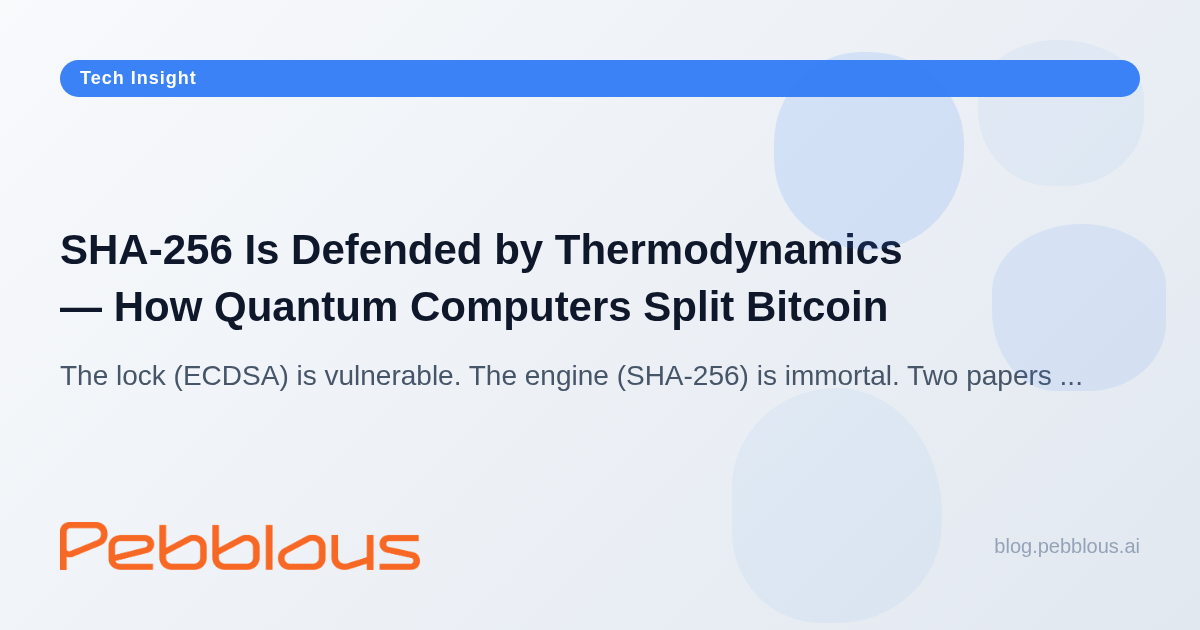
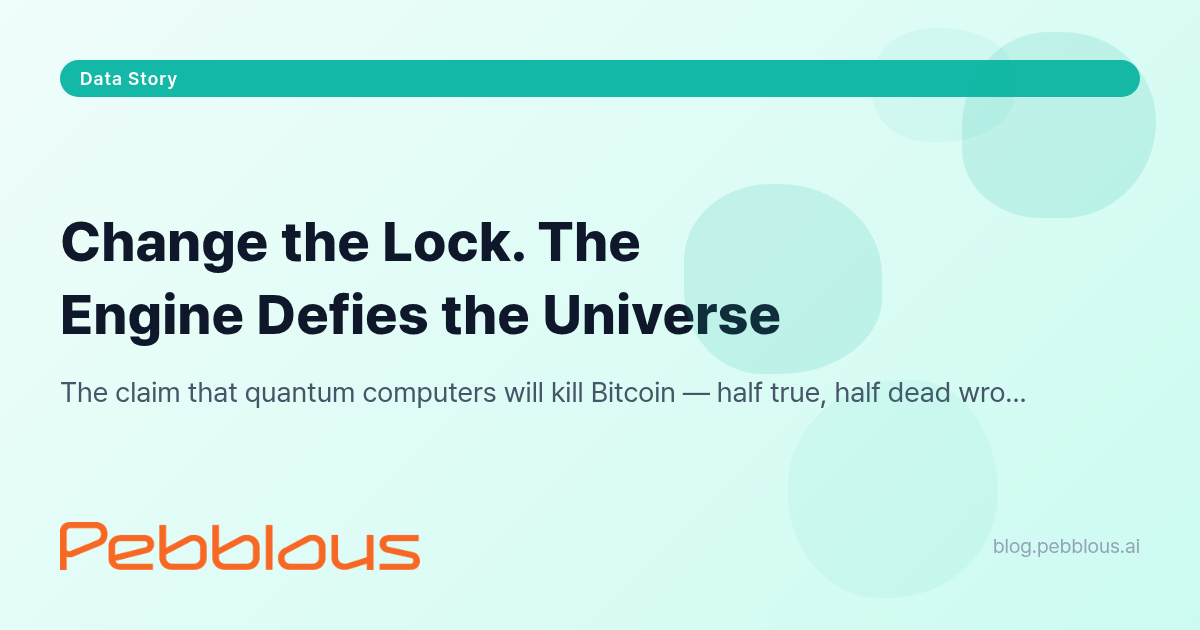
refactor(story): quantum-bitcoin-split 제목 최종 확정
KO: 비트코인 자물쇠는 바꿔야 한다. 채굴은 우주도 못 건드린다
KO 부제: 양자컴퓨터가 비트코인을 죽인다는 말, 반은 맞고 반은 틀렸다
EN: Change the Lock. The Engine Defies the Universe.
EN 부제: The claim that quantum computers will kill Bitcoin — half true, half dead wrong.

- KO/EN OG 이미지 재생성

Changed region(s): [[0.0308, 0.0302, 0.9867, 0.9349]]

diff --git a/report/quantum-bitcoin-split/ko/index.html b/report/quantum-bitcoin-split/ko/index.html
@@ -10,8 +10,8 @@
     <meta name="robots" content="index, follow">
     <meta name="revisit-after" content="7 days">
 
-    <title>비트코인의 자물쇠는 깨지고, 엔진은 우주가 지킨다 | 페블러스</title>
-    <meta name="description" content="'양자컴퓨터가 비트코인을 끝낸다'는 공포와 '절대 못 깬다'는 안도, 둘 다 절반만 맞습니다. 서명(ECDSA)은 1,200 논리 큐비트면 깨지지만, 채굴(SHA-256)은 태양 전체를 삼키는 에너지가 있어야 위협이 됩니다.">
+    <title>비트코인 자물쇠는 바꿔야 한다. 채굴은 우주도 못 건드린다 | 페블러스</title>
+    <meta name="description" content="양자컴퓨터가 비트코인을 죽인다는 말, 반은 맞고 반은 틀렸습니다. 서명(ECDSA)은 1,200 논리 큐비트면 깨지지만, 채굴(SHA-256)은 태양 전체를 삼키는 에너지가 있어야 위협이 됩니다.">
     <meta name="keywords" content="양자컴퓨팅, 비트코인, ECDSA, Shor 알고리즘, Grover 알고리즘, BIP 360, 양자내성, 카르다쇼프, SHA-256, 암호화폐, AI 에이전트, 블록체인 보안">
 
     <link rel="canonical" href="https://blog.pebblous.ai/report/quantum-bitcoin-split/ko/">
@@ -20,8 +20,8 @@
     <link rel="alternate" hreflang="x-default" href="https://blog.pebblous.ai/report/quantum-bitcoin-split/ko/">
 
     <!-- Open Graph -->
-    <meta property="og:title" content="비트코인의 자물쇠는 깨지고, 엔진은 우주가 지킨다">
-    <meta property="og:description" content="서명(ECDSA)은 1,200 큐비트면 깨지고, 채굴(SHA-256)은 태양을 삼켜도 안전합니다. 2026년 3월 두 편의 논문이 그린 진짜 지도.">
+    <meta property="og:title" content="비트코인 자물쇠는 바꿔야 한다. 채굴은 우주도 못 건드린다">
+    <meta property="og:description" content="양자컴퓨터가 비트코인을 죽인다는 말, 반은 맞고 반은 틀렸습니다. 서명(ECDSA)은 1,200 큐비트면 깨지고, 채굴(SHA-256)은 태양을 삼켜도 안전합니다.">
     <meta property="og:type" content="article">
     <meta property="og:url" content="https://blog.pebblous.ai/report/quantum-bitcoin-split/ko/">
     <meta property="og:image" content="https://blog.pebblous.ai/report/quantum-bitcoin-split/ko/image/index.png">
@@ -35,8 +35,8 @@
     <meta name="twitter:card" content="summary_large_image">
     <meta name="twitter:site" content="@pebblous_ai">
     <meta name="twitter:creator" content="@pebblous_ai">
-    <meta name="twitter:title" content="비트코인의 자물쇠는 깨지고, 엔진은 우주가 지킨다">
-    <meta name="twitter:description" content="서명(ECDSA)은 1,200 큐비트면 깨지고, 채굴(SHA-256)은 태양을 삼켜도 안전합니다. 2026년 3월 두 편의 논문이 그린 진짜 지도.">
+    <meta name="twitter:title" content="비트코인 자물쇠는 바꿔야 한다. 채굴은 우주도 못 건드린다">
+    <meta name="twitter:description" content="양자컴퓨터가 비트코인을 죽인다는 말, 반은 맞고 반은 틀렸습니다. 서명(ECDSA)은 1,200 큐비트면 깨지고, 채굴(SHA-256)은 태양을 삼켜도 안전합니다.">
     <meta name="twitter:image" content="https://blog.pebblous.ai/report/quantum-bitcoin-split/ko/image/index.png">
     <meta name="twitter:image:alt" content="양자컴퓨터와 비트코인 심층 분석">
 
@@ -550,9 +550,9 @@
 <script src="/scripts/common-utils.js?v=20260408"></script>
 <script>
     PebblousPage.init({
-        mainTitle: "비트코인의 자물쇠는 깨지고, 엔진은 우주가 지킨다",
-        subtitle: "2026년 3월, 두 편의 논문이 양자컴퓨터 공포에 마침표를 찍었다",
-        pageTitle: "비트코인의 자물쇠는 깨지고, 엔진은 우주가 지킨다 | 페블러스",
+        mainTitle: "비트코인 자물쇠는 바꿔야 한다. 채굴은 우주도 못 건드린다",
+        subtitle: "양자컴퓨터가 비트코인을 죽인다는 말, 반은 맞고 반은 틀렸다",
+        pageTitle: "비트코인 자물쇠는 바꿔야 한다. 채굴은 우주도 못 건드린다 | 페블러스",
         category: "tech",
         publishDate: "2026-04-08",
         publisher: "(주)페블러스 데이터 커뮤니케이션팀",

diff --git a/report/quantum-bitcoin-split/en/index.html b/report/quantum-bitcoin-split/en/index.html
@@ -10,8 +10,8 @@
     <meta name="robots" content="index, follow">
     <meta name="revisit-after" content="7 days">
 
-    <title>Bitcoin's Lock Is Broken, but the Universe Guards Its Engine | Pebblous</title>
-    <meta name="description" content="The fear that quantum computers will end Bitcoin and the comfort that they never could are both half right. ECDSA signatures fall to 1,200 logical qubits; SHA-256 mining would need the energy of an entire star.">
+    <title>Change the Lock. The Engine Defies the Universe | Pebblous</title>
+    <meta name="description" content="The claim that quantum computers will kill Bitcoin — half true, half dead wrong. Two March 2026 papers split the threat in two: ECDSA signatures fall to 1,200 qubits, but SHA-256 mining is cosmologically safe.">
     <meta name="keywords" content="quantum computing, bitcoin, ECDSA, Shor algorithm, Grover algorithm, BIP 360, post-quantum, Kardashev, SHA-256, cryptocurrency, AI agents, blockchain security">
 
     <link rel="canonical" href="https://blog.pebblous.ai/report/quantum-bitcoin-split/en/">
@@ -20,8 +20,8 @@
     <link rel="alternate" hreflang="x-default" href="https://blog.pebblous.ai/report/quantum-bitcoin-split/ko/">
 
     <!-- Open Graph -->
-    <meta property="og:title" content="Bitcoin's Lock Is Broken, but the Universe Guards Its Engine">
-    <meta property="og:description" content="ECDSA signatures break at 1,200 qubits. SHA-256 mining stays safe even if you swallow the Sun. Two March 2026 papers drew the real map.">
+    <meta property="og:title" content="Change the Lock. The Engine Defies the Universe">
+    <meta property="og:description" content="The claim that quantum computers will kill Bitcoin — half true, half dead wrong. Two March 2026 papers split Bitcoin's quantum threat in two.">
     <meta property="og:type" content="article">
     <meta property="og:url" content="https://blog.pebblous.ai/report/quantum-bitcoin-split/en/">
     <meta property="og:image" content="https://blog.pebblous.ai/report/quantum-bitcoin-split/en/image/index.png">
@@ -35,8 +35,8 @@
     <meta name="twitter:card" content="summary_large_image">
     <meta name="twitter:site" content="@pebblous_ai">
     <meta name="twitter:creator" content="@pebblous_ai">
-    <meta name="twitter:title" content="Bitcoin's Lock Is Broken, but the Universe Guards Its Engine">
-    <meta name="twitter:description" content="ECDSA signatures break at 1,200 qubits. SHA-256 mining stays safe even if you swallow the Sun. Two March 2026 papers drew the real map.">
+    <meta name="twitter:title" content="Change the Lock. The Engine Defies the Universe">
+    <meta name="twitter:description" content="The claim that quantum computers will kill Bitcoin — half true, half dead wrong. Two March 2026 papers split Bitcoin's quantum threat in two.">
     <meta name="twitter:image" content="https://blog.pebblous.ai/report/quantum-bitcoin-split/en/image/index.png">
     <meta name="twitter:image:alt" content="Quantum computing and Bitcoin deep analysis">
 
@@ -545,9 +545,9 @@
 <script src="/scripts/common-utils.js?v=20260408"></script>
 <script>
     PebblousPage.init({
-        mainTitle: "Bitcoin's Lock Is Broken, but the Universe Guards Its Engine",
-        subtitle: "In March 2026, two papers ended the quantum-Bitcoin panic — with numbers",
-        pageTitle: "Bitcoin's Lock Is Broken, but the Universe Guards Its Engine | Pebblous",
+        mainTitle: "Change the Lock. The Engine Defies the Universe.",
+        subtitle: "The claim that quantum computers will kill Bitcoin — half true, half dead wrong.",
+        pageTitle: "Change the Lock. The Engine Defies the Universe | Pebblous",
         category: "tech",
         publishDate: "2026-04-08",
         publisher: "Pebblous Data Communication Team",
